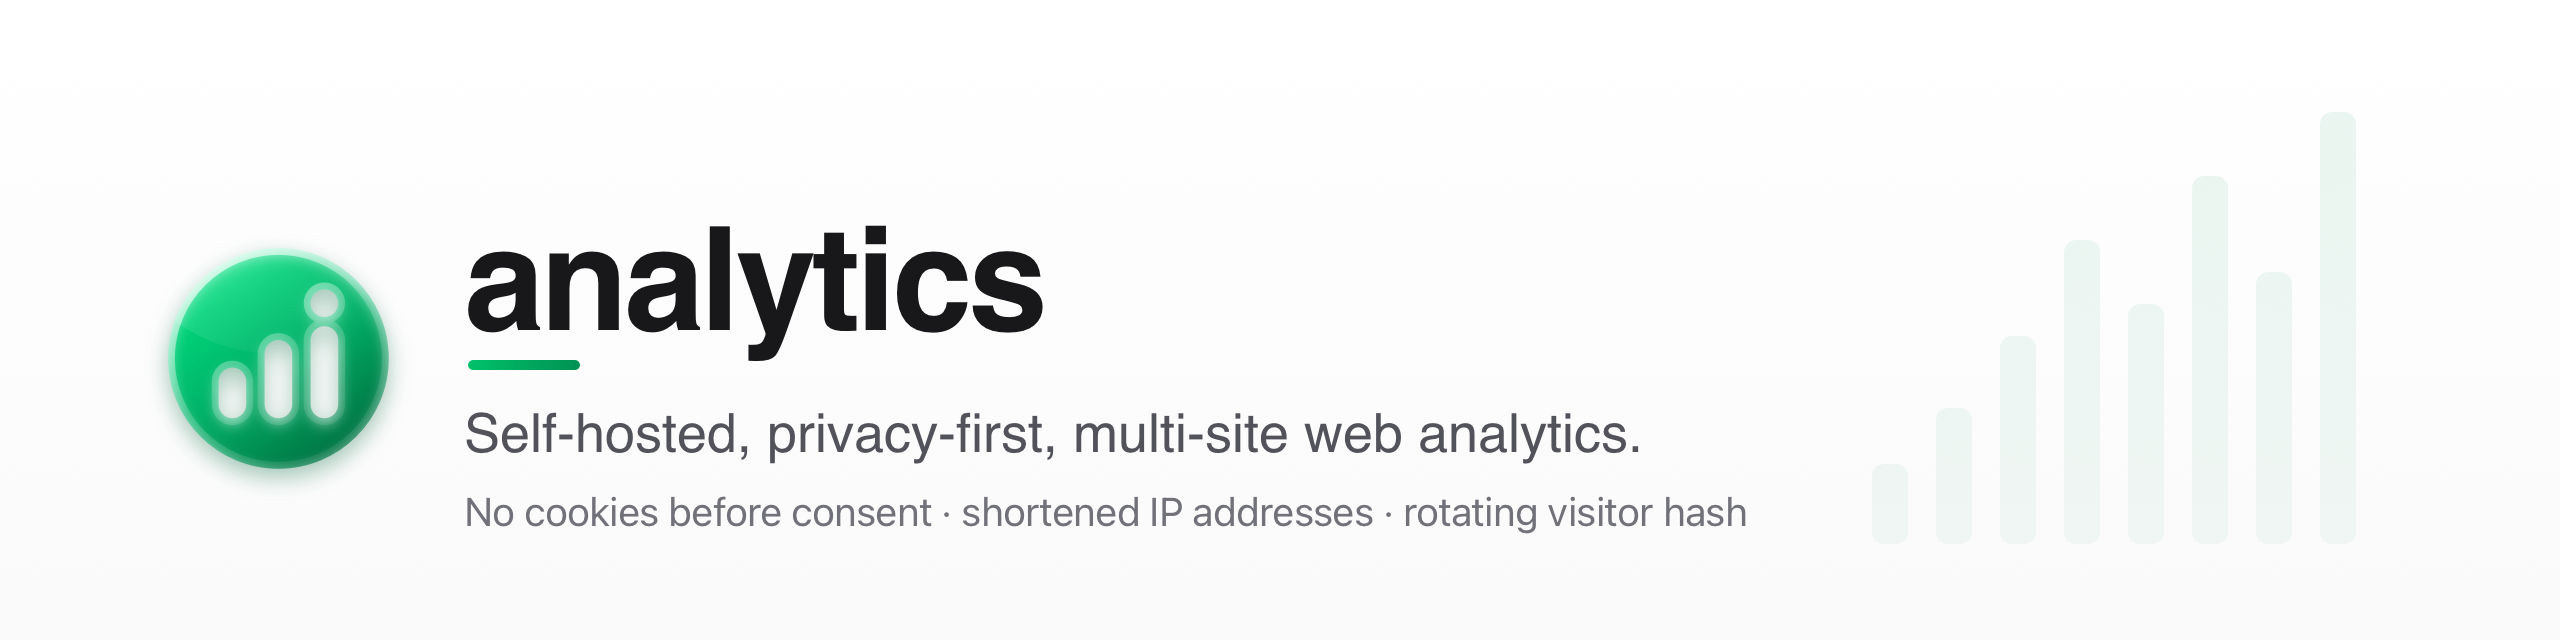
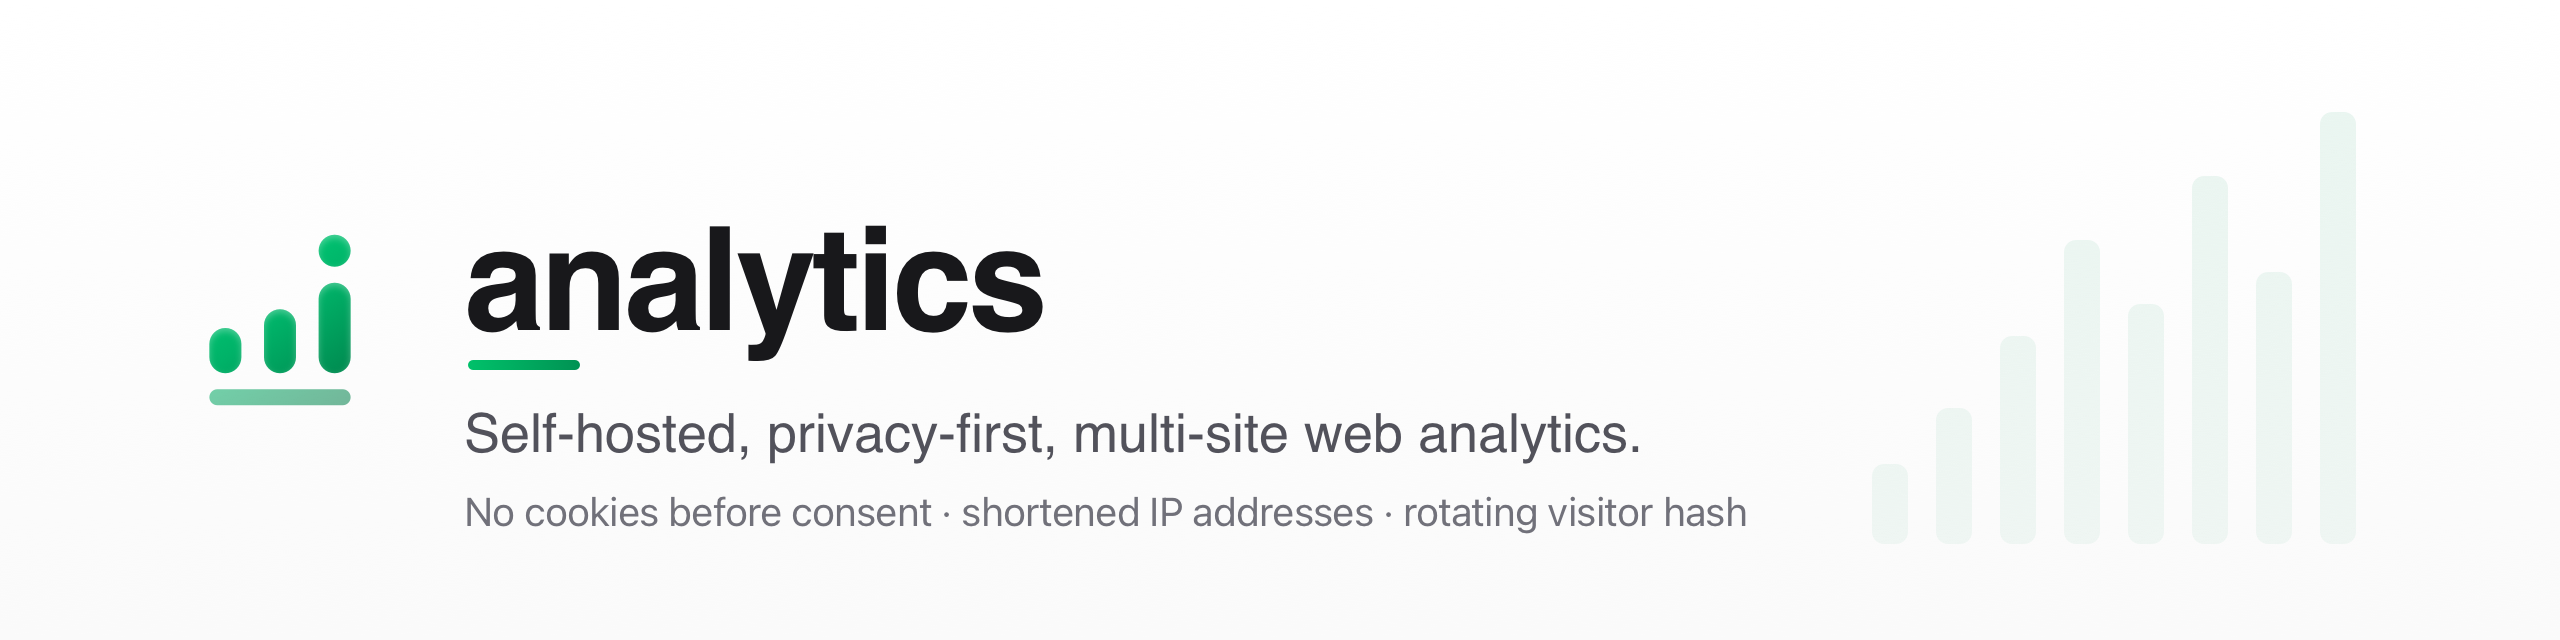
Draw the mark on a √2 grid and ship it everywhere
The icon is now constructed rather than sketched: a modular scale with a single
1.414 ratio (32 · 45.26 · 64 · 90.5 · 128 · 181, where every second step
doubles) sets every measurement. Pills are one module wide and one step apart,
their heights are three consecutive steps, the detached dot is one module
across, and the chart stands on a rule that is itself a pill, one step below.
The construction, the scale and the grid are documented as their own artboards
in docs/assets/brand/analytics-brand.sketch, which is now the source the favicon,
the app icon, the in-app logo and both README banners are exported from.

Also: the site-creation end-to-end test asserted that the domain field cleared,
which is not proof the tag was added — it now asserts the tag, so a lost tag
fails where it happens instead of one test later.

Claude-Session: https://claude.ai/code/session_01N57UdFA5qcbVb1wkGdkkPQ

Changed region(s): [[0.0625, 0.375, 0.1562, 0.75]]

diff --git a/services/dashboard/app/components/AppLogo.vue b/services/dashboard/app/components/AppLogo.vue
@@ -1,8 +1,8 @@
 <script setup lang="ts">
 /**
- * The project mark: the chart cut out of a lens, so whatever is behind it shows through the bars.
- * The source of truth is docs/assets/brand/mark.svg, which also produces the favicon, the app icon
- * and the README banner; it is inlined here so the interface never waits for a request to show its
+ * The project mark: three pills on a √2 grid, the tallest capped by a detached dot, standing on a
+ * rule that is itself a pill. The source of truth is the Sketch document in docs/assets/brand,
+ * exported to mark.svg; it is inlined here so the interface never waits for a request to show its
  * own logo.
  */
 withDefaults(defineProps<{ class?: string }>(), { class: 'size-6' })
@@ -11,14 +11,14 @@ withDefaults(defineProps<{ class?: string }>(), { class: 'size-6' })
 <template>
   <svg
     :class="$props.class"
-    viewBox="0 0 128 128"
+    viewBox="0 0 388.97 388.97"
     xmlns="http://www.w3.org/2000/svg"
     role="img"
     aria-hidden="true"
   >
     <defs>
       <linearGradient
-        id="app-logo-lens"
+        id="app-logo-chart"
         x1="0.15"
         y1="0"
         x2="0.85"
@@ -28,52 +28,39 @@ withDefaults(defineProps<{ class?: string }>(), { class: 'size-6' })
         <stop offset="0.5" stop-color="#00B268" />
         <stop offset="1" stop-color="#00663A" />
       </linearGradient>
-      <linearGradient
-        id="app-logo-rim"
-        x1="0.2"
-        y1="0"
-        x2="0.8"
-        y2="1"
-      >
-        <stop offset="0" stop-color="#ffffff" stop-opacity="0.85" />
-        <stop offset="0.5" stop-color="#ffffff" stop-opacity="0.18" />
-        <stop offset="1" stop-color="#ffffff" stop-opacity="0.04" />
-      </linearGradient>
-      <linearGradient
-        id="app-logo-sheen"
-        x1="0.3"
-        y1="0"
-        x2="0.7"
-        y2="1"
-      >
-        <stop offset="0" stop-color="#ffffff" stop-opacity="0.5" />
-        <stop offset="0.6" stop-color="#ffffff" stop-opacity="0.09" />
-        <stop offset="1" stop-color="#ffffff" stop-opacity="0" />
-      </linearGradient>
-      <clipPath id="app-logo-disc">
-        <path d="M64,16 A48,48 0 1 0 64,112 A48,48 0 1 0 64,16 Z" />
-      </clipPath>
     </defs>
-    <path
-      fill="url(#app-logo-lens)"
-      fill-rule="evenodd"
-      d="M64,16 A48,48 0 1 0 64,112 A48,48 0 1 0 64,16 Z M44,68 H44 A6,6 0 0 1 50,74 V84 A6,6 0 0 1 44,90 H44 A6,6 0 0 1 38,84 V74 A6,6 0 0 1 44,68 Z M64,56 H64 A6,6 0 0 1 70,62 V84 A6,6 0 0 1 64,90 H64 A6,6 0 0 1 58,84 V62 A6,6 0 0 1 64,56 Z M84,50 H84 A6,6 0 0 1 90,56 V84 A6,6 0 0 1 84,90 H84 A6,6 0 0 1 78,84 V56 A6,6 0 0 1 84,50 Z M84,34 A6,6 0 1 0 84,46 A6,6 0 1 0 84,34 Z"
-    />
-    <ellipse
-      cx="64"
-      cy="14"
-      rx="62"
-      ry="46"
-      fill="url(#app-logo-sheen)"
-      clip-path="url(#app-logo-disc)"
-    />
-    <circle
-      cx="64"
-      cy="64"
-      r="46.5"
-      fill="none"
-      stroke="url(#app-logo-rim)"
-      stroke-width="3"
-    />
+    <g fill="url(#app-logo-chart)">
+      <rect
+        x="53.23"
+        y="210.45"
+        width="64"
+        height="90.5"
+        rx="32"
+      />
+      <rect
+        x="162.49"
+        y="172.99"
+        width="64"
+        height="127.96"
+        rx="32"
+      />
+      <rect
+        x="271.75"
+        y="120.01"
+        width="64"
+        height="180.94"
+        rx="32"
+      />
+      <circle cx="303.75" cy="56" r="32" />
+    </g>
+    <g fill="url(#app-logo-chart)" opacity="0.55">
+      <rect
+        x="53.23"
+        y="332.96"
+        width="282.52"
+        height="32.01"
+        rx="16.01"
+      />
+    </g>
   </svg>
 </template>

diff --git a/services/e2e/tests/sites.spec.ts b/services/e2e/tests/sites.spec.ts
@@ -33,6 +33,9 @@ test('an admin creates a site with its domains', async ({ page }) => {
     await input.pressSequentially(domain)
     await input.press('Enter')
     await expect(input).toHaveValue('')
+    // The field clearing is not proof the tag landed: assert the tag itself, or the next test
+    // fails instead of this one.
+    await expect(dialog.getByText(domain, { exact: true })).toBeVisible()
   }
   // Both tags survived: `site:list` in the next test asserts what was stored.
 
